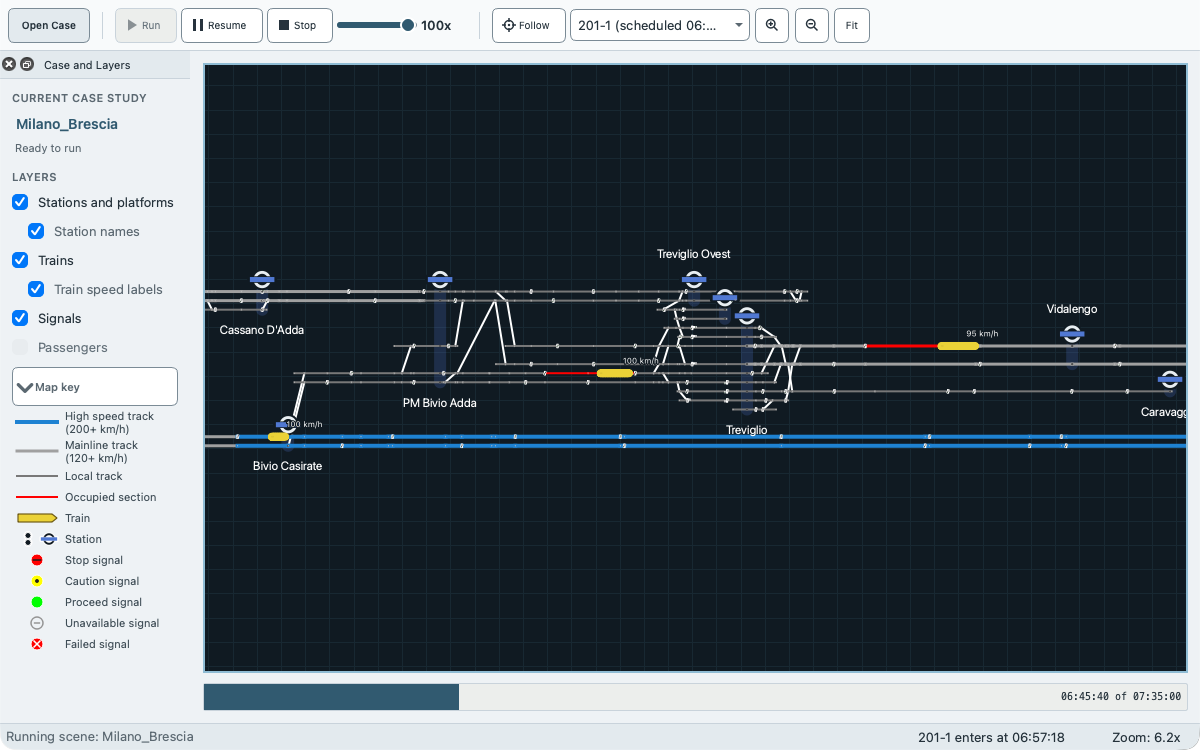
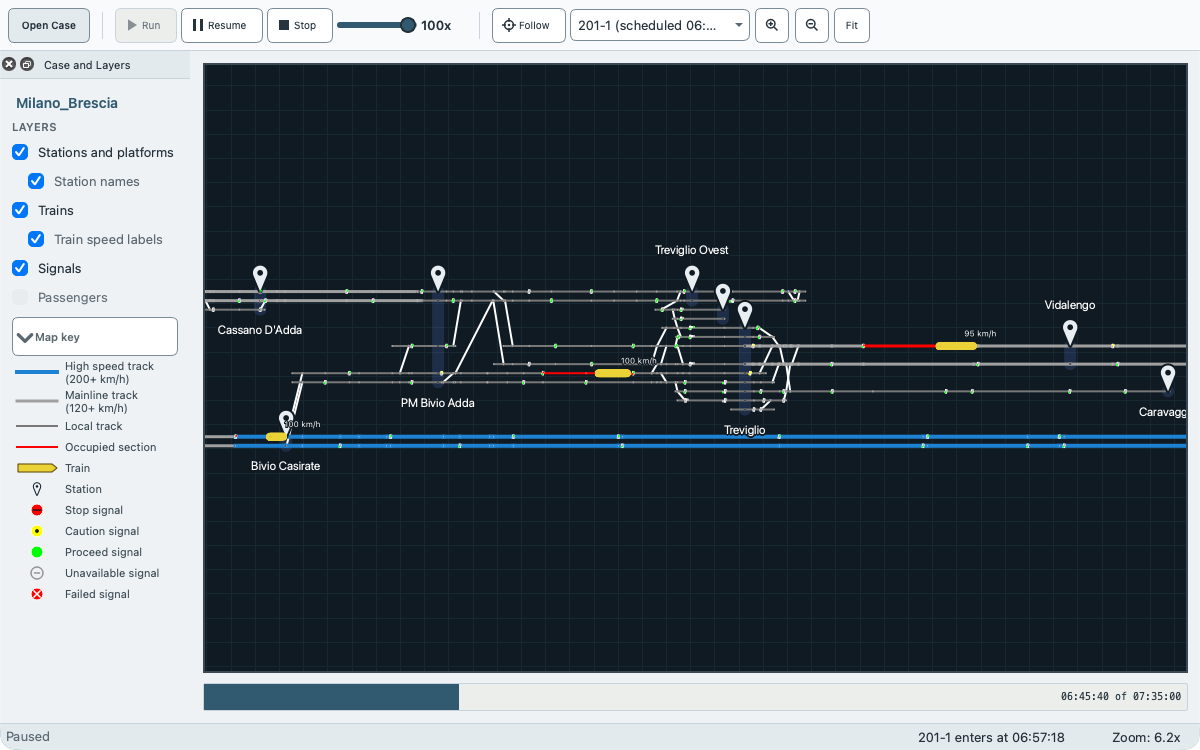
Retake the guide and README pictures and bring their alt texts in line

diff --git a/docs/guides/tutorial-modify-a-case.md b/docs/guides/tutorial-modify-a-case.md
@@ -36,7 +36,7 @@ Both edits are to the service `Guin-Paim-EXPRESS-1`, the train that runs from Gu
 1. Open the dock **Services** (**Editors > Services**) and choose `Guin-Paim-EXPRESS-1` in the list. The dock has the tabs **Service**, **Timetable** and **Run occurrences**.
 2. Open the tab **Timetable** and click the row `Pontrieaux` in the table of stops. The dialog **Edit Timetable Stop** opens.
 
-   ![The dialog Edit Timetable Stop for the stop Pontrieaux of Guin-Paim-EXPRESS-1 as committed: compatible platform (no platform), planned arrival 1567, planned departure 1627 and Minimum dwell (s) 60, with the buttons OK and Cancel.](../images/tutorial-modify-edit-timetable-stop.png)
+   ![The dialog Edit Timetable Stop for the stop Pontrieaux of Guin-Paim-EXPRESS-1 as committed: Compatible platform (no platform), Planned arrival 1567, Planned departure 1627 and Minimum dwell (s) 60, with the buttons OK and Cancel.](../images/tutorial-modify-edit-timetable-stop.png)
 3. Try **Cancel** first: change **Minimum dwell (s)** from 60 to 999 and choose **Cancel**. The row still shows 60 and the title bar shows no mark for unsaved changes.
 4. Click the row again, enter `180` in **Minimum dwell (s)** and choose **OK**. **OK** applies all fields of the dialog together. The row shows 180 and the title bar shows the mark.
 5. Open the tab **Service**, set **Performance (%)** to `80` and press Enter. The field accepts 1 to 100; 100 is the committed value.
@@ -49,7 +49,7 @@ Choose **View > Case Validation** (Ctrl+Shift+V). The columns are **Severity**, 
 
 - Code `scene.dwell.exceeds_window`, message "Minimum dwell is longer than the time from arrival to departure", path `services[Guin-Paim-EXPRESS-1].stops[1].dwell_seconds`.
 
-![The dock Case Validation after the dwell edit. The first row is a warning with the code scene.dwell.exceeds_window and the message Dwell time exceeds departure - arrival window, in services.json. Rows below it are scene.passenger.legs.empty warnings.](../images/how-to-scene-validation.png)
+![The dock Case Validation after the dwell edit, with the columns Severity, Message and Fix. Row 1 is the warning Minimum dwell is longer than the time from arrival to departure; the rows below it read Journey has no route-choice legs.](../images/how-to-scene-validation.png)
 
 A warning does not block a run. An error does: **Run** is disabled and the dock **Case and Layers** shows the first error under the name of the case. **Edit > Undo** takes an edit back. Normal mode hides the warning counts in the status bar; **View > Advanced Details** shows them.
 
@@ -88,11 +88,11 @@ A comparison needs two runs of the same case: a baseline without incidents or en
 1. Open the dock **Scenarios** (**Editors > Scenarios**). The list **Scenarios** has one row, for the scenario `baseline` (named Baseline), with the marker `default`. With it selected, choose **Duplicate** (**New** makes an empty scenario instead). The new scenario `baseline_copy` is selected. Replace **Name** with `Express breakdown`.
 2. Open the tab **Incidents** of the dock and choose **Add Incident**. Set **Type** to `Train breakdown` and **Target** to `Guin-Paim-EXPRESS-1-1 (route route6, +10 s)`. Enter `900` in **Start (s)**. Leave **End (s)** ticked and enter `1200` in the field below it, leave **Reduced speed** unticked, and press Enter after each number. The train stops at 900 s and recovers at 1200 s. For a signal failure, the icon button **Pick** beside **Target** takes the block of the signal head that you click on the network view.
 3. Choose **File > Save**. The list marks the scenario `modified` until you save. Saving does not clear results or the baseline.
-4. Choose `baseline` in the list. Choosing a scenario is not an edit. Choose **Run** and check that the dialog **Run simulation** has no **Incidents** row and names the scenario `baseline`. After "Simulation complete", choose **Set delay baseline** in the dock **Run Results**. The line under **Delay comparison** now starts with `Baseline: Paimpol practice / baseline`.
-5. Choose `baseline_copy` in the list. The results are cleared, so the dock **Run Results** and the **Replay** row close, and the baseline stays. The entry of the menu **View** that starts with Run Results opens the dock again, as in the picture below. Choose **Run**; the dialog now says **Incidents** 1. After "Simulation complete", choose **Compare delays**.
+4. Choose `Baseline` (`baseline`) in the list. Choosing a scenario is not an edit. Choose **Run** and check that the dialog **Run simulation** has no **Incidents** row and names the scenario `baseline`. After "Simulation complete", choose **Set delay baseline** in the dock **Run Results**. The line under **Delay comparison** now starts with `Baseline: Paimpol practice / baseline`.
+5. Choose `Express breakdown` (`baseline_copy`) in the list. The results are cleared, so the dock **Run Results** and the **Replay** row close, and the baseline stays. The entry of the menu **View** that starts with Run Results opens the dock again, as in the picture below. Choose **Run**; the dialog now says **Incidents** 1. After "Simulation complete", choose **Compare delays**.
 6. The window **Delay analysis** opens on the tab **Against baseline**. `Guin-Paim-EXPRESS-1` has a positive additional delay at Paimpol. The run without a window, with `baseline_copy` as the default scenario, gave 343 s: the arrival at Paimpol moves from 2866 s to 3209 s. `Guin-Paim-ALL-STOPS-1` is Same. How to read the window, and what it does not claim, is in [How delays are calculated](delay-analysis.md#the-delay-analysis-window).
 
-   ![The dock Incidents with the scenarios baseline and baseline_copy (Express breakdown, 1 incident) listed and baseline_copy selected, above the dock Run Results after a run of baseline was set as the delay baseline. Run Results says No completed run and Baseline: Paimpol practice / baseline, and Set delay baseline and Compare delays are both dimmed.](../images/tutorial-modify-incident-baseline.png)
+   ![The dock Scenarios on its tab Scenario, with Baseline (default) and Express breakdown (1 incident) listed and Express breakdown selected, beside the dock Run Results after a run of baseline was set as the delay baseline. Run Results says No results yet and Baseline: Paimpol practice / baseline, and Set delay baseline and Compare delays are dimmed.](../images/tutorial-modify-incident-baseline.png)
 
 After any edit, **Compare delays** is disabled and the line above the buttons in **Run Results** reads "Baseline cleared: the case changed" until a run completes. Repeat step 4 and step 5. If the tab **Against baseline** lists reasons instead of a difference, the two runs do not match in another way. For example, the selection on the tab **Run occurrences** of **Services** differs between the runs, and the tab says that an occurrence is in one run only. Keep every occurrence selected, because the two runs must hold the same trains.
 
@@ -115,7 +115,7 @@ Results are the Run Results table, the result windows opened from it and the rep
 
 1. Choose **File > Quit** (on macOS, the Quit entry of the application menu). If the title bar still shows the mark for unsaved changes, EGTRAIN asks about them (the box is titled **Unsaved Case** on Windows and Linux, and is a sheet without a title on macOS); choose **Save**.
 2. Start EGTRAIN again. In **Open a Case**, choose `paimpol-practice` under **Recent cases** and **Open**. **File > Recent Cases** does the same from the window.
-3. In **Services**, `Guin-Paim-EXPRESS-1` has dwell 180 at Pontrieaux and performance 80. In **Scenarios**, the list holds `baseline` and `baseline_copy` with one incident. The scenario that is selected after opening is the default, `baseline`.
+3. In **Services**, `Guin-Paim-EXPRESS-1` has dwell 180 at Pontrieaux and performance 80. In **Scenarios**, the list holds `Baseline` (`baseline`) and `Express breakdown` (`baseline_copy`) with one incident. The scenario that is selected after opening is the default, `baseline`.
 4. The Run Results are empty and **Compare delays** is disabled: results and the baseline were not saved. Run both scenarios again to compare.
 
 ## Check the copy outside the window

diff --git a/docs/guides/getting-started.md b/docs/guides/getting-started.md
@@ -45,7 +45,7 @@ When Paimpol has loaded:
 - The dock **Case and Layers** on the left names the case. When validation finds an error, the line under the name shows the first error and **Run** is disabled. The check boxes under **Layers** switch parts of the picture on and off: **Stations and platforms**, **Station names**, **Trains**, **Train speed labels**, **Signals** and **Passengers**. **View > Map Key** explains the symbols. **Passengers** is off at the first start and is the same switch as **View > Passengers**. Turning it on shows the passenger markers and counters on the platform bars from the next run, and turning it off hides them at once. The platform bars belong to the stations: they show whenever you zoom in on a station, with or without passengers. A case without passengers draws no passenger markers and shows both controls off and disabled; the choice comes back in a case with passengers. `-pax 1` ([the option](command-line.md#options)) starts with passengers on, and the program remembers the last choice.
 - The toolbar holds **Open Case**, **Run**, **Pause**, **Stop**, a speed slider with the current speed next to it, **Follow** with the list of trains, the zoom buttons and **Fit**.
 
-![The main window with Paimpol loaded and not yet run, at the full view. The toolbar, the dock Case and Layers with Passengers off and the map key, the line of stations and the status bar Scene loaded: Paimpol (2 services, 15 routes) are visible.](../images/getting-started-main-window.png)
+![The main window with Paimpol loaded and not yet run, at the full view. The toolbar, the dock Case and Layers with Passengers off and the map key, the line of stations and the status bar Opened Paimpol are visible.](../images/getting-started-main-window.png)
 
 The editors, **Case Validation**, **Loaded Data** and **Log** are hidden when the window opens. The menu **Editors** opens the editors, and the menu **View** opens the other docks.
 
@@ -60,7 +60,7 @@ To see the findings, choose **View > Case Validation** (Ctrl+Shift+V). The table
 1. Click **Run** in the toolbar, or choose **Simulation > Run** (Ctrl+R) or **File > Run**. The three do the same.
 2. The dialog **Run simulation** reviews the run before it starts. Under the name of the case and the scenario (`Paimpol / baseline`) it shows **Trains** (2: both services enter during the run), **Start time** (07:10:40) and **Duration** (`2:30:00, until 09:40:40`). **Incidents** shows only when the scenario has any, and a line under the facts shows only when something needs your attention, for example `No selected trains start in this period.` **Run details** shows more.
 
-   ![The dialog Run simulation for Paimpol / baseline before a run: 2 selected in period, start clock 07:10:40, duration 2:30:00 ending near 09:40:40, 0 active incidents and the message Ready to run, with Run details closed and the buttons Run simulation and Cancel.](../images/getting-started-run-simulation.png)
+   ![The dialog Run simulation for Paimpol / baseline before a run: Trains 2, Start time 07:10:40 and Duration 2:30:00, until 09:40:40, with Run details closed and the buttons Cancel and Run simulation.](../images/getting-started-run-simulation.png)
 3. Click **Run simulation**. **Cancel** returns to the window without a run.
 
 While the run is active:
@@ -76,7 +76,7 @@ At the fastest speed the run of Paimpol takes seconds. When it has ended, the st
 
 ## 5. Replay the run
 
-The **Replay** row has the icon buttons **Start**, **Play** and **End**, a slider and the clock time of the shown frame, such as `07:31:10`. Moving the slider or clicking **Start** or **End** shows the network as it was at that time, and **Play** advances one simulated second for each second of real time. The row records one frame every 5 simulated seconds and shows the last frame at or before the chosen time. A run that is too large to keep whole loses its first part, and a line under the controls says which part the row holds. [How-to](how-to.md#replay-a-completed-run) has the details.
+The **Replay** row has the icon buttons **Start**, **Play** and **End**, a slider and a label. The label reads `Replay` until you choose a time, and then the clock time of the shown frame, such as `07:31:10`. Moving the slider or clicking **Start** or **End** shows the network as it was at that time, and **Play** advances one simulated second for each second of real time. The row records one frame every 5 simulated seconds and shows the last frame at or before the chosen time. A run that is too large to keep whole loses its first part, and a line under the controls says which part the row holds. [How-to](how-to.md#replay-a-completed-run) has the details.
 
 ## 6. Read the results
 
@@ -89,7 +89,7 @@ To open a result window, click **Open result view...** in the dock and choose an
 
 The other entries are listed in [How-to](how-to.md#results-and-exports). The entries stay disabled until a run has ended.
 
-![The window after a completed run of Paimpol / baseline, with the menu Open result view of the dock Run Results open above its button. It lists twelve views in three groups of four: timetable and delays, speed and distance, and train paths and capacity. Beside and below it are the Replay row, the buttons Open result view, Export CSV and Export PNG, the results table, and at the bottom edge the buttons Set delay baseline and Compare delays.](../images/getting-started-run-results.png)
+![The window after a completed run of Paimpol / baseline, with the menu Open result view... of the dock Run Results open above its button. It lists twelve views in three groups of four: timetable and delays, speed and distance, and train paths and capacity. Beside and below it are the Replay row, the buttons Open result view..., Export CSV... and Export PNG..., the results table, and at the bottom Set delay baseline and Compare delays.](../images/getting-started-run-results.png)
 
 ## 7. Export one CSV and one PNG
 

diff --git a/docs/guides/tutorial-minimal-scene.md b/docs/guides/tutorial-minimal-scene.md
@@ -35,17 +35,17 @@ Everything in this part happens in the dock **Infrastructure**; click its tab. T
 1. **Tracks.** Choose **Add**. The track is `track`.
 2. **Nodes.** Choose **Add** three times. The nodes `node`, `node_2` and `node_3` go on the first track, at **X (km)** 0, 1 and 2 and **Y (km)** 0. The proposed positions are the ones you want.
 
-   ![The dock Infrastructure on Nodes of the new case Minimal line, listing node, node_2 and node_3 on track at X 0, 1 and 2 km and Y 0, with node_3 selected. The canvas shows the track with its three nodes, and the status bar says that 9 validation errors must be fixed.](../images/tutorial-minimal-nodes.png)
+   ![The dock Infrastructure on Nodes of the new case Minimal line, listing node, node_2 and node_3 on track at X 0, 1 and 2 km and Y 0, with node_3 selected. The canvas highlights the selected track with its three nodes; the status bar reads Cannot run: 9 errors.](../images/tutorial-minimal-nodes.png)
 3. **Arcs.** Choose **Add** twice. The arcs `arc` (from `node` to `node_2`) and `arc_2` (from `node_2` to `node_3`) join the nodes in order. They get a **Curvature radius (m)** of 0, a **Gradient (rise/length)** of 0 and a **Speed limit (m/s)** of 20, which you keep.
 4. **Blocks.** The blocks have a filter above the table that names a track; choose `track`. Choose **Add** twice. The blocks `block` and `block_2` are 1 km long each, so together they cover the 2 km of the track.
 5. **Stations.** Choose **Add** twice. The stations are `station` and `station_2`, and each is named after its identifier.
 6. **Platforms.** Choose **Add** twice. Both platforms (`platform` and `platform_2`) start at the first station. In the second row, set **Station ID** to `station_2`. Then set **Nodes**, a comma-separated list of nodes: `node` for the first row and `node_3` for the second, so that each platform is at the end node of the track. Leave **Length (m)** and **Width (m)** at their proposed values.
 
-   ![The dock Infrastructure on Platforms, with platform at node in station and platform_2 at node_3 in station_2, each 100 m long, and platform_2 selected. The canvas shows the track with a station at each end, and the status bar counts 3 validation errors.](../images/tutorial-minimal-platforms.png)
+   ![The dock Infrastructure on Platforms: platform at node in station and platform_2 at node_3 in station_2, 100 m each, platform_2 selected. The canvas highlights the selected track, with a station at each end; the status bar reads Cannot run: 3 errors.](../images/tutorial-minimal-platforms.png)
 7. **Signalling area.** Choose **Add**. The area `signalling-area` covers **Start km** 0 to **End km** 2 and applies to all tracks. In the column **Signalling system**, choose `0 ATB fixed block`. An area without a system is an error. Without any area the case still runs, and validation only warns that the sections run without signalling. What the level means is in [Signalling levels](signalling-levels.md), and it is the level that the committed Paimpol case uses.
 8. **Routes.** Choose **Add**. The route is `route`, and it is selected. Below the table, choose `track 0.000 to 1.000 km` in **Section catalog** and choose **Add Section**; then choose `track 1.000 to 2.000 km` and **Add Section** again. Each entry names a section by its track and the kilometres of its ends; its tooltip gives the section ID, such as `@block@`. The list of sections shows both in this order. Leave **Has corridor** and **Reversed** as they are.
 
-The tables **Connections** (joins between two nodes), **Signals**, **Block dependencies**, **Single-track restrictions** and **Station boundaries** stay empty. A single track needs none of them, and the committed Paimpol case has no signals either.
+The tables **Connections** (joins between two nodes), **Signals**, **Block dependencies**, **Single-track restrictions** and **Station boundaries** stay empty. A single track needs none of them, and the committed Paimpol case has no signals either. The canvas still draws a pair of signal heads where `block_2` starts, as the picture of step 6 shows: it marks the boundaries between the blocks of a track, whatever the table **Signals** holds.
 
 ## 3. A rolling stock unit
 
@@ -84,7 +84,7 @@ Open **Editors > Compositions** and choose **Add Composition**. The composition 
 2. Open the tab **Timetable** and choose **Add Stop**. In the dialog **Add Timetable Stop**, leave **Insert position** as proposed, and check that **Station** is `station` and **Compatible platform** is `platform`. Tick **Planned departure** and enter `120`. Leave **Planned arrival** unticked and **Minimum dwell (s)** at 0, and choose **OK**. A blank planned time means that there is none, and the first stop has no arrival.
 3. Choose **Add Stop** again. Leave **Insert position** at the proposed place after stop 1, and set **Station** to `station_2` and **Compatible platform** to `platform_2`. Tick **Planned arrival** and enter `250`. Leave the departure unticked, because the train ends its service here, and choose **OK**.
 
-   ![The dock Services on the tab Timetable for new_service, with two stops: station on platform with departure 120, and station_2 on platform_2 with arrival 250. The case base reads 08:00:00 and the dock Case and Layers says Ready to run.](../images/tutorial-minimal-service.png)
+   ![The dock Services on the tab Timetable for new_service: station on platform with departure 120 and station_2 on platform_2 with arrival 250, in Seconds after 08:00:00. Run is enabled, and the dock Case and Layers shows no error.](../images/tutorial-minimal-service.png)
 
 The planned times are seconds after the base time of the case, 08:00:00 (**Planned time display** is **Elapsed offsets (s)**). The table shows both stops in order. **Cancel** in the dialog leaves the table unchanged.
 

diff --git a/docs/guides/how-to.md b/docs/guides/how-to.md
@@ -77,7 +77,7 @@ You need an open case. EGTRAIN checks it when it opens, after every edit and bef
 1. Look in the dock **Case and Layers**. It names the case, and when an error blocks the run, the line under the name shows the first error.
 2. Choose **View > Case Validation** (Ctrl+Shift+V). The table lists the findings, errors first, with **Severity**, **Code**, **Message**, **File**, **Path** and **Fix**. Without **View > Advanced Details**, **Code**, **File** and **Path** are in the tooltip of a row instead.
 
-   ![The dock Case Validation of Paimpol practice, a copy of Paimpol, after an edit of a dwell, with one warning, scene.dwell.exceeds_window, above the passenger warnings. The columns Severity, Code, Message and File are visible; Path is cut off and Suggested Fix is out of view.](../images/how-to-scene-validation.png)
+   ![The dock Case Validation of Paimpol practice, a copy of Paimpol, after a dwell edit, with the columns Severity, Message and Fix. Row 1 is the warning Minimum dwell is longer than the time from arrival to departure; the rows below it read Journey has no route-choice legs.](../images/how-to-scene-validation.png)
 3. Fix the first error in the editor that matches its **File** and **Path** (menu **Editors**), and read the table again. It updates after each edit.
 4. Repeat until no error is left. **Run** is then enabled.
 
@@ -154,7 +154,7 @@ You need a run that reached its end. A stopped or failed run has no replay, and 
 2. Each selection shows the last recorded frame at or before the chosen time, not an interpolated position. The label beside the slider shows the clock time of the frame in the format of the progress bar, for example `08:20:30`. **Play** advances one simulated second for each second of real time, and the button then turns into **Pause**.
 3. When the replay holds the whole run, the row has no further text. A frame is recorded every 5 simulated seconds.
 
-   ![The Replay row under the network after a run of Paimpol, with Start, Play, End and the slider at 08:09:00, Follow on Guin-Paim-ALL-STOPS-1-1, and the context menu of that train open: Show details, Add train breakdown, Center in view, Follow train, Copy train index and the dimmed Planned route and related infrastructure.](../images/how-to-replay-menu.png)
+   ![The Replay row under the network after a run of Paimpol, with Start, Play, End and the slider at 08:09:00, Follow on Guin-Paim-ALL-STOPS-1-1, and the context menu of that train open: Show details, Add train breakdown, Center in view, Follow train and Copy train index.](../images/how-to-replay-menu.png)
 
 The replay has 128 MiB of memory. A run that is larger loses its oldest frames. A line under the controls then says from which time the replay starts, for example `Replay starts at 10:00:20. Earlier times did not fit in memory.` The slider covers only the kept part, and **Start** goes to its first time. The tooltip of **Start** says so. If not even one moment fits, the row says `No replay` and `This run is too large to replay.`, and the slider and **Play** are disabled.
 

diff --git a/README.md b/README.md
@@ -4,7 +4,7 @@ EGTRAIN is a desktop application for microscopic railway simulation. It covers r
 
 [Download](https://github.com/Ancientkingg/EGTRAIN/releases) | [Install](docs/guides/install.md) | [Getting started](docs/guides/getting-started.md) | [Documentation](docs/README.md) | [Report an issue](https://github.com/Ancientkingg/EGTRAIN/issues)
 
-![The main window during a run of Milano_Brescia, paused at 06:45:40 at 100x and zoomed in on Treviglio, with trains and their speed labels on the tracks and the dock Case and Layers with its map key on the left](docs/images/readme-main-window.png)
+![The main window with a run of Milano_Brescia paused at 06:45:40 at 100x, zoomed in on Treviglio, with trains and their speed labels, the dock Case and Layers with its map key, and Paused in the status bar](docs/images/readme-main-window.png)
 
 A run of Milano_Brescia in the main window, paused with the trains around Treviglio in view.
 
